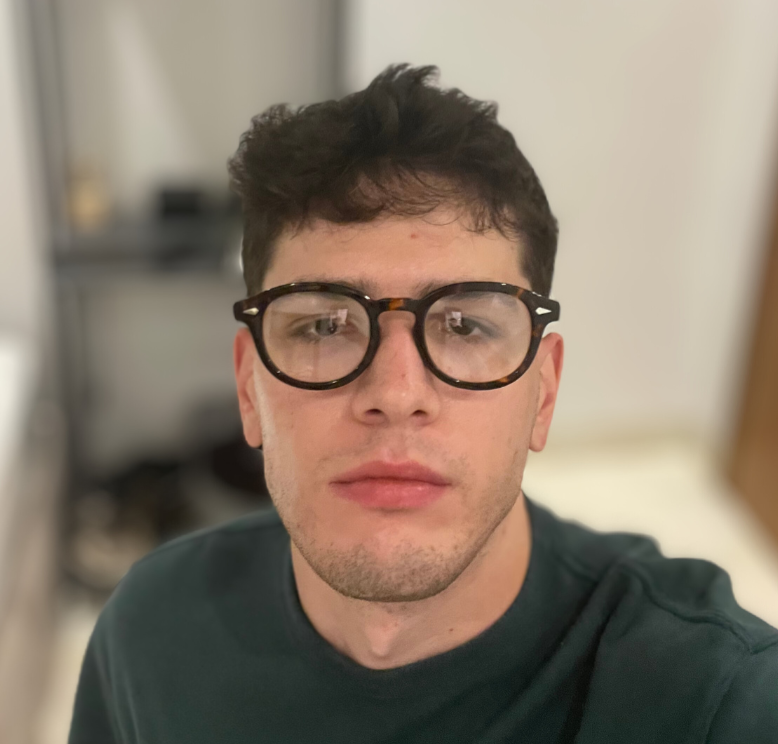
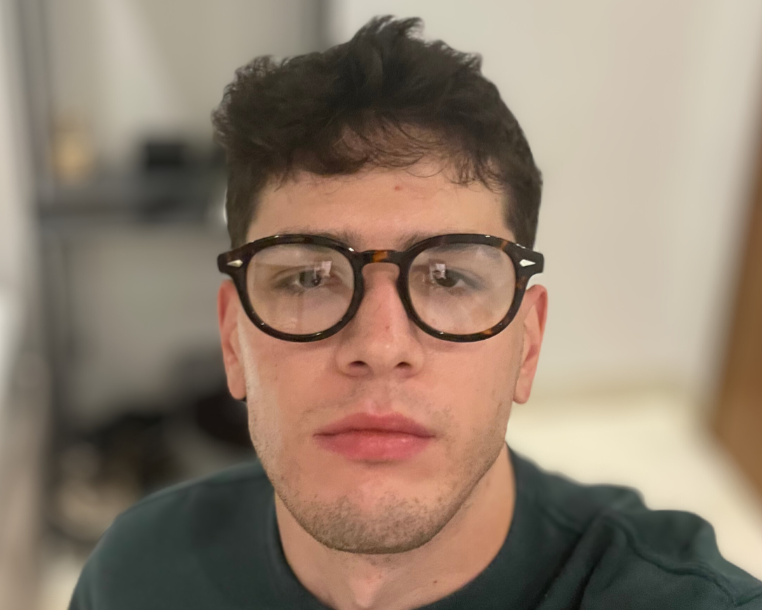
up foto

diff --git a/templates/index.html b/templates/index.html
@@ -88,7 +88,7 @@
     <h1>NOSSO TIME</h1>
     <div class="team-members">
       <div class="member">
-        <img src="/static/img/img-time/marcus.png" alt="Team Member">
+        <img src="/static/img/img-time/marcus5.jpeg" alt="Team Member">
         <h2>Marcus Tomazelli</h2>
         <p>Fundador e Desenvolvedor</p>
         <a href="https://www.linkedin.com/in/marcus-tomazelli/" class="btn">Contato</a>
